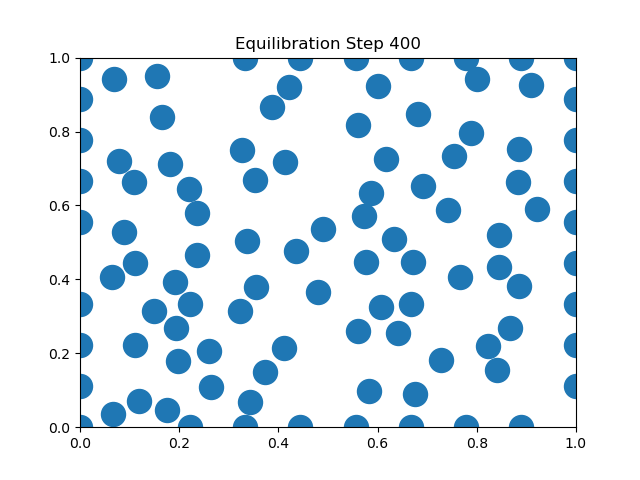
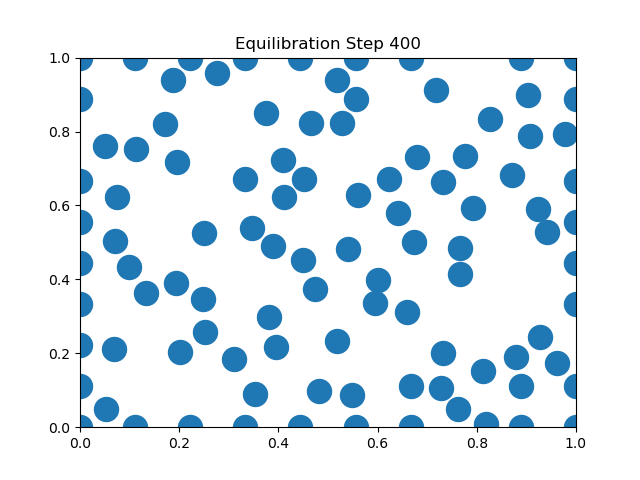
pair correlation

diff --git a/pair_correlation.py b/pair_correlation.py
@@ -1,11 +1,9 @@
 import numpy as np
-import matplotlib_inline as plt
-
-import numpy as np
 import random
 import matplotlib.pyplot as plt
 from PIL import Image
 import glob
+import os
 #eta is a random number
 #delta is the amplitude of displacement
 #moves are accepted/rejected when particles overlap/are separate
@@ -72,12 +70,20 @@ r = 0.03
 a = np.pi*r**2
 points_radius = 2 * r / 1.0 * points_whole_ax
 # Setup
-
+### GIF ADDITION ###
+os.makedirs("frames", exist_ok=True)
+frame_index = 0
+total_steps = 20000   # number of MC attempts
+save_every = 100     # save a frame every N steps
+### EQUILIBRATION GIF SETUP ###
+os.makedirs("frames_equil", exist_ok=True)
+eq_frame_index = 0
+save_every_equil = 100     # save a frame every 100 steps
 d = 0.1
 L = 1.0
 
 # Random initial positions
-file = 'Coordinates.dat'
+#file = 'Coordinates.dat'
 #xvals = np.array([])
 #yvals = np.array([])
 
@@ -149,7 +155,7 @@ def pairCorrelationFunction_2D(x, y, L, rMax, dr):
             radius = np.sqrt(dx**2 + dy**2)
     
             if radius < rMax and radius>2*r:
-                bin_idx = int(radius / dr) # bin number
+                bin_idx = int(radius / dr) # bin number - what bin is the particle pair going to
                 if bin_idx < len(g_r): #ensures no over-counting
                     g_r[bin_idx] += 2  # Count for both i-j and j-i - this is just the number of particles at this point
     
@@ -162,51 +168,56 @@ def pairCorrelationFunction_2D(x, y, L, rMax, dr):
     
     return r_array, g_r
 
-def averaged_g_r(Nx, Ny, spacing, r, d, L, rMax, dr, num_sims=10, equil_steps=10000):
-    """Run multiple MC simulations and average g(r)"""
+def averaged_g_r(x, y, r, d, L, rMax, dr, num_sims=10, equil_steps=10000):
+
     g_r_sum = None
-    
+
+    # Make copies so the original arrays are not modified
+    x_sim = np.copy(x)
+    y_sim = np.copy(y)
+
     for sim in range(num_sims):
-        # Initialize
-        x_sim = np.zeros(Nx*Ny)
-        y_sim = np.zeros(Nx*Ny)
-        index = 0
-        for i in range(Nx):
-            for j in range(Ny):
-                x_sim[index] = i * spacing + np.random.uniform(-0.01, 0.01)
-                y_sim[index] = j * spacing + np.random.uniform(-0.01, 0.01)
-                index += 1
-        x_sim /= max(x_sim)
-        y_sim /= max(y_sim)
-        
-        # Equilibrate
+        # Equilibrate: perform MC moves
         for step in range(equil_steps):
             x_sim, y_sim, _ = mc_move(x_sim, y_sim, r, d, L)
-        
-        # Calculate g(r)
+
+        # Compute g(r) for this snapshot
         r_vals, g_r_single = pairCorrelationFunction_2D(x_sim, y_sim, L, rMax, dr)
-        
+
+        # Accumulate
         if g_r_sum is None:
             g_r_sum = g_r_single
         else:
             g_r_sum += g_r_single
-    
-    return r_vals, g_r_sum / num_sims
+
+    # Average over snapshots
+    g_r_avg = g_r_sum / num_sims
+
+    return r_vals, g_r_avg
 
 
-# Perform 10000 MC moves
+
+# Perform 1000 MC moves
 overlaps = find_overlaps(x, y, r)
 print("there are", len(overlaps), "overlaps")
 accepted_moves = 0
-for step in range(10000):
+for step in range(1000):
     x, y, accepted = mc_move(x, y, r, d, L)
     if accepted:
         accepted_moves += 1
-    if step%1000 == 0 and step!=0:
+    if step%100 == 0 and step!=0:
         #print(step)
         #print(accepted_moves)
         acceptance_ratio = accepted_moves/step
         print("Acceptance ratio (no modification): ", acceptance_ratio)
+    if step % save_every_equil == 0:
+        plt.figure()
+        plt.scatter(x, y, s=points_radius**2)
+        plt.xlim(0, L); plt.ylim(0, L)
+        plt.title(f"Equilibration Step {step}")
+        plt.savefig(f"frames_equil/eq_{eq_frame_index:04d}.png")
+        plt.close()
+        eq_frame_index += 1
         #can always modify this so it just does 1 cycle
 while acceptance_ratio>0.5 or acceptance_ratio<0.25:
     if acceptance_ratio>0.5:
@@ -216,6 +227,14 @@ while acceptance_ratio>0.5 or acceptance_ratio<0.25:
             x,y,accepted = mc_move(x,y,r,d,L)
             if accepted:
                 accepted_moves+=1
+            if j % save_every_equil == 0:
+                plt.figure()
+                plt.scatter(x, y, s=points_radius**2)
+                plt.xlim(0, L); plt.ylim(0, L)
+                plt.title(f"Tuning Step {j}")
+                plt.savefig(f"frames_equil/eq_{eq_frame_index:04d}.png")
+                plt.close()
+                eq_frame_index += 1
         acceptance_ratio = accepted_moves/10000
         print("Acceptance ratio (large):", acceptance_ratio)
     if acceptance_ratio<0.25:
@@ -225,6 +244,14 @@ while acceptance_ratio>0.5 or acceptance_ratio<0.25:
             x,y,accepted = mc_move(x,y,r,d,L)
             if accepted:
                 accepted_moves+=1
+            if j % save_every_equil == 0:
+                plt.figure()
+                plt.scatter(x, y, s=points_radius**2)
+                plt.xlim(0, L); plt.ylim(0, L)
+                plt.title(f"Tuning Step {j}")
+                plt.savefig(f"frames_equil/eq_{eq_frame_index:04d}.png")
+                plt.close()
+                eq_frame_index += 1
         acceptance_ratio = accepted_moves/10000
         print("Acceptance ratio (small):", acceptance_ratio)
 print("final acceptance ratio:", acceptance_ratio)
@@ -236,15 +263,17 @@ g_r_results = []
 print("\nCalculating g(r) for different dr values...")
 for dr in dr_values:
     print(f"  Computing with dr = {dr:.4f}...")
-    r_vals, g_r = averaged_g_r(Nx, Ny, spacing, r, d, L, L/2, dr, num_sims=10, equil_steps=10000)
+    r_vals, g_r = averaged_g_r(x,y,r,d,L,L/2,dr,num_sims=10, equil_steps=10000)
     g_r_results.append((r_vals, g_r, dr))
 
 
 plt.figure(figsize=(10, 4))
 
 plt.subplot(1, 2, 1)
-points_whole_ax = 5 * 0.8 * 72
-points_radius = 2 * r / 1.0 * points_whole_ax
+fig = plt.gcf()
+dpi = fig.get_dpi()
+marker_radius_points = r * min(fig.get_size_inches()) * dpi
+marker_area_points2 = (2 * marker_radius_points)**2
 plt.scatter(x, y, s=points_radius**2)
 plt.xlim(0, L)
 plt.ylim(0, L)
@@ -267,7 +296,39 @@ plt.legend()
 plt.show()
 
 
+### GIF BUILDING ###
+frames = []
+files = sorted(glob.glob("frames/*.png"))
 
+for f in files:
+    frames.append(Image.open(f))
+
+frames[0].save(
+    "simulation.gif",
+    save_all=True,
+    append_images=frames[1:],
+    duration=200,
+    loop=0
+)
+
+print("GIF saved as simulation.gif")
+
+### BUILD EQUILIBRATION GIF ###
+eq_frames = []
+files = sorted(glob.glob("frames_equil/*.png"))
+
+for f in files:
+    eq_frames.append(Image.open(f))
+
+eq_frames[0].save(
+    "equilibration.gif",
+    save_all=True,
+    append_images=eq_frames[1:],
+    duration=200,
+    loop=0
+)
+
+print("Equilibration GIF saved as equilibration.gif")
 print("optimal value of d: ", d)
 overlaps = find_overlaps(x, y, r)
 print("there are", len(overlaps), "overlaps")
